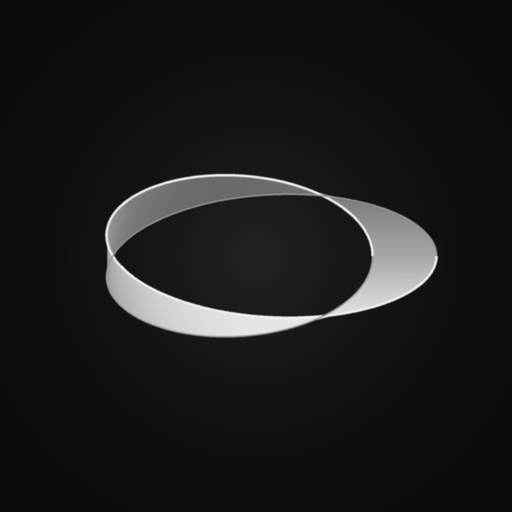
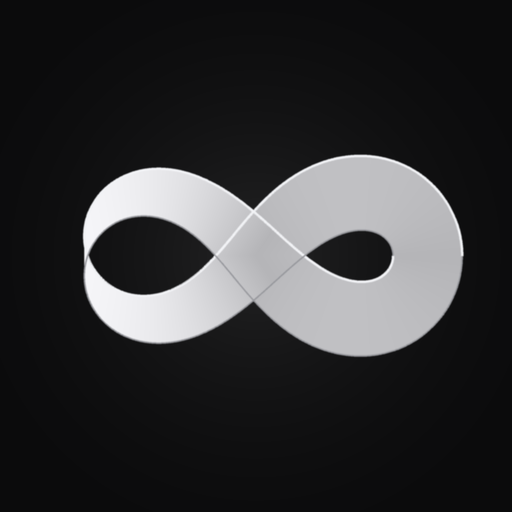
feat: 아이콘 눕힌8자(∞) 뫼비우스로 재설계 / ★비교 속도 대폭개선(AI 병렬 호출+fast 1패스 모드, 타임아웃 45s, 빠른모델 우선) / 저장된 글도 예약게시(내 게시물에서 ⏰예약)

Changed region(s): [[0.1562, 0.2812, 0.9062, 0.7188]]

diff --git a/app.js b/app.js
@@ -1553,7 +1553,8 @@ async function loadPosts(status, btn){
         actions = p.post_url ? `<button class="btn-sm" onclick="window.open('${p.post_url}','_blank')">글 보기 ↗</button>` : '';
       } else {
         actions = `<button class="btn-sm" onclick="editPost(${p.id},this)">✏️ 편집</button>
-          <button class="btn-sm mint" onclick="publishPost(${p.id},this)">🚀 게시</button>`;
+          <button class="btn-sm mint" onclick="publishPost(${p.id},this)">🚀 게시</button>
+          <button class="btn-sm" onclick="schedulePost(${p.id},this)">⏰ 예약</button>`;
       }
       return `<div class="post-item" id="post-${p.id}">
         <div class="post-top">${CH_LABEL(p.channel)} ${badge}</div>
@@ -1602,6 +1603,40 @@ async function publishEdited(id, btn){
     else if(res.need_connect){ toast('설정에서 SNS 연결 먼저'); go('settings'); }
     else { toast('게시 실패: '+(res.error||'')); btn.textContent='🚀 저장 후 게시'; btn.disabled=false; }
   }catch(e){ toast('게시 실패'); btn.textContent='🚀 저장 후 게시'; btn.disabled=false; }
+}
+
+// 저장된 글 예약 게시 (통계 → 내 게시물)
+function schedulePost(id, btn){
+  const item = document.getElementById('post-'+id);
+  if(!item) return;
+  const act = item.querySelector('.post-act');
+  const now = new Date(Date.now() + 3600*1000);
+  const p = n => String(n).padStart(2,'0');
+  const def = `${now.getFullYear()}-${p(now.getMonth()+1)}-${p(now.getDate())}T${p(now.getHours())}:${p(now.getMinutes())}`;
+  act.innerHTML = `<div style="width:100%">
+    <div style="font-size:11px;color:var(--muted);font-weight:700;letter-spacing:.1em;margin-bottom:6px">SCHEDULE</div>
+    <input type="datetime-local" id="ps-${id}" value="${def}" style="width:100%;background:var(--surface-2);border:1px solid var(--line);border-radius:8px;color:var(--text);padding:10px;font-size:14px;margin-bottom:8px;color-scheme:dark">
+    <div style="display:flex;gap:6px">
+      <button class="btn-sm mint" style="flex:1" onclick="doSchedulePost(${id},this)">⏰ 이 시각에 예약</button>
+      <button class="btn-sm ghost" onclick="loadPosts('all')">취소</button>
+    </div></div>`;
+}
+async function doSchedulePost(id, btn){
+  const el = document.getElementById('ps-'+id);
+  if(!el || !el.value){ toast('시각을 골라주세요'); return; }
+  const t = new Date(el.value);
+  if(isNaN(t.getTime()) || t <= new Date()){ toast('미래 시각을 골라주세요'); return; }
+  btn.textContent='예약 중…'; btn.disabled=true;
+  try{
+    const accIds = {};
+    const picked = (window.__pickedAccount||{})['threads'];
+    if(picked) accIds['threads'] = picked;
+    const r = await fetch('/api/publish',{method:'POST',headers:{'Content-Type':'application/json'},
+      body:JSON.stringify({post_id:id, scheduled_for:t.toISOString(), account_ids:accIds})});
+    const res = await r.json();
+    if(res.ok){ toast('예약됐어요! ⏰ 본글+답글 자동 게시'); loadPosts('all'); }
+    else { toast('예약 실패: '+(res.error||'')); btn.textContent='⏰ 이 시각에 예약'; btn.disabled=false; }
+  }catch(e){ toast('예약 실패'); btn.textContent='⏰ 이 시각에 예약'; btn.disabled=false; }
 }
 
 async function publishPost(id, btn){

diff --git a/index.html b/index.html
@@ -1,7 +1,7 @@
 <!DOCTYPE html>
 <html lang="ko">
 <head>
-<meta name="build" content="0712-1205">
+<meta name="build" content="0712-1220">
 <meta http-equiv="Cache-Control" content="no-cache, no-store, must-revalidate">
 <meta http-equiv="Pragma" content="no-cache">
 <meta http-equiv="Expires" content="0">
@@ -586,6 +586,6 @@
 </div>
 
 <script src="https://cdnjs.cloudflare.com/ajax/libs/html2canvas/1.4.1/html2canvas.min.js"></script>
-<script src="/app.js?v=1783857906"></script>
+<script src="/app.js?v=1783858817"></script>
 </body>
 </html>

diff --git a/app.py b/app.py
@@ -398,7 +398,7 @@ def llm_list():
 @app.route("/api/compare-write", methods=["POST"])
 @login_required
 def compare_write():
-    """여러 AI로 같은 글을 써서 비교."""
+    """여러 AI로 같은 글을 써서 비교. ★병렬 호출 + 빠른모드(1패스)로 속도 확보."""
     d = request.get_json(force=True, silent=True) or {}
     product = (d.get("productName") or "").strip()
     deeplink = (d.get("deeplink") or "").strip()
@@ -411,15 +411,32 @@ def compare_write():
     targets = [p for p in providers if p in keys]
     if not targets:
         targets = [p for p in ("gemini", "groq", "openrouter") if p in keys]   # 유료(Claude) 자동 사용 안 함
+
     from core import claude_write_thread
+    import concurrent.futures as _cf
+    names = {"gemini": "Gemini (무료)", "openrouter": "OpenRouter (무료)",
+             "groq": "Groq (무료)", "anthropic": "Claude"}
+
+    def _one(p):
+        # 비교는 속도가 생명 → fast=True (1패스, 검수/폴리시 생략)
+        r = claude_write_thread(keys[p], product, deeplink, tone, price, fast=True)
+        return {"provider": p, "name": names.get(p, p),
+                "ok": r.get("ok", False), "content": r.get("content", ""),
+                "error": r.get("error", "")}
+
     results = []
-    names = {"gemini": "Gemini (무료)", "openrouter": "OpenRouter (무료)", "groq": "Groq (무료)", "anthropic": "Claude"}
-    for p in targets[:3]:
-        r = claude_write_thread(keys[p], product, deeplink, tone, price)
-        results.append({"provider": p, "name": names.get(p, p),
-                        "ok": r.get("ok", False),
-                        "content": r.get("content", ""),
-                        "error": r.get("error", "")})
+    with _cf.ThreadPoolExecutor(max_workers=4) as ex:
+        futs = {ex.submit(_one, p): p for p in targets[:4]}
+        for f in _cf.as_completed(futs, timeout=75):
+            try:
+                results.append(f.result())
+            except Exception as e:
+                p = futs[f]
+                results.append({"provider": p, "name": names.get(p, p),
+                                "ok": False, "content": "", "error": str(e)[:60]})
+    # 요청 순서대로 정렬
+    order = {p: i for i, p in enumerate(targets)}
+    results.sort(key=lambda r: order.get(r["provider"], 99))
     return jsonify({"ok": True, "results": results})
 
 
@@ -642,7 +659,10 @@ def publish_sns():
         # 게시물 URL: Zernio가 permalink를 안 주므로 계정 프로필로 연결
         prof_url = _profile_url_from_zernio(r.get("data"), platforms[0])
         if post_id:
-            store.mark_published(post_id, prof_url, str((r.get("data") or {}).get("post", {}).get("_id", "")))
+            if d.get("scheduled_for"):
+                store.mark_scheduled(post_id, str((r.get("data") or {}).get("post", {}).get("_id", "")))
+            else:
+                store.mark_published(post_id, prof_url, str((r.get("data") or {}).get("post", {}).get("_id", "")))
         else:
             new_id = store.save_post(session["uid"], channel, d.get("productName", ""),
                                      content, d.get("deeplink", ""), (media[0] if media else None),

diff --git a/core.py b/core.py
@@ -825,7 +825,7 @@ TONE_GUIDE = {
     "pov": "POV 상황극 — 특정 순간에 독자를 놓기",
 }
 
-def claude_write_thread(api_key, product_name, deeplink, tone="friendly", price=None, extra=""):
+def claude_write_thread(api_key, product_name, deeplink, tone="friendly", price=None, extra="", fast=False):
     """쓰레드 6분할 작성. ★사람다움 최우선: few-shot + 휴머나이즈 규칙 + AI티 검출 재작성."""
     if not api_key:
         return {"ok": False, "error": "no_key"}
@@ -856,6 +856,11 @@ def claude_write_thread(api_key, product_name, deeplink, tone="friendly", price=
         return {"ok": False, "error": "parse_error", "detail": str(e)[:100]}
     if len(posts) < 4:
         return {"ok": False, "error": "bad_format"}
+
+    if fast:
+        # 비교용 빠른 모드: 추가 패스 생략 (검출된 AI티만 기계적 정리)
+        posts = [scrub_ai_artifacts(str(p)) for p in posts]
+        return {"ok": True, "content": "\n===THREAD===\n".join(posts)}
 
     # ★사람다움 검증 루프: AI 티 검출되면 최대 2회까지 강제 재작성
     for _ in range(2):
@@ -947,7 +952,7 @@ def _llm_groq(api_key, sys_prompt, user_msg, max_tokens=3000):
 
 def _llm_gemini(api_key, sys_prompt, user_msg, max_tokens=1200):
     """Google Gemini — 무료 티어 (aistudio.google.com에서 키 발급)."""
-    models = ["gemini-2.5-pro", "gemini-2.5-flash", "gemini-2.0-flash", "gemini-flash-latest"]
+    models = ["gemini-2.5-flash", "gemini-2.5-pro", "gemini-2.0-flash", "gemini-flash-latest"]
     last = {}
     for m in models:
         url = f"https://generativelanguage.googleapis.com/v1beta/models/{m}:generateContent?key={api_key}"
@@ -988,8 +993,8 @@ def _openrouter_free_models():
     if _OR_CACHE["models"] and now - _OR_CACHE["at"] < 3600:
         return _OR_CACHE["models"]
     # 선호 순서 (한국어·창작 강한 대형 우선)
-    PREFER = ["nemotron-3-ultra", "nemotron-3-super", "qwen3-next-80b", "gpt-oss-120b",
-              "llama-3.3-70b", "gemma-4-31b", "gemma-4-26b", "hy3", "nemotron-3-nano-30b"]
+    PREFER = ["llama-3.3-70b", "gpt-oss-120b", "qwen3-next-80b", "gemma-4-31b",
+              "nemotron-3-super", "gemma-4-26b", "nemotron-3-nano-30b", "hy3"]
     try:
         req = urllib.request.Request("https://openrouter.ai/api/v1/models")
         data = json.loads(urllib.request.urlopen(req, timeout=15, context=_ctx).read())
@@ -1034,7 +1039,7 @@ def _llm_openrouter(api_key, sys_prompt, user_msg, max_tokens=3000):
                 headers={"Authorization": f"Bearer {api_key}", "Content-Type": "application/json",
                          "HTTP-Referer": "https://linklynk.onrender.com", "X-Title": "LinkLynk"},
                 method="POST")
-            with urllib.request.urlopen(req, timeout=90, context=_ctx) as r:
+            with urllib.request.urlopen(req, timeout=45, context=_ctx) as r:
                 data = json.loads(r.read().decode())
             text = (data.get("choices") or [{}])[0].get("message", {}).get("content", "")
             if text and text.strip():

diff --git a/store.py b/store.py
@@ -181,6 +181,10 @@ def mark_published(post_id, post_url=None, post_id_ext=None):
           WHERE id=%s""", (post_url, post_id_ext, int(time.time()), post_id))
     return {"ok": True}
 
+def mark_scheduled(post_id, post_id_ext=None):
+    _q("UPDATE linklynk_posts SET status='scheduled', post_id=%s WHERE id=%s", (post_id_ext, post_id))
+    return {"ok": True}
+
 def update_post_content(uid, post_id, content):
     """임시저장 글 내용 편집 (본인 것만)."""
     _q("UPDATE linklynk_posts SET content=%s WHERE id=%s AND user_id=%s AND status IN ('draft','autodraft')",